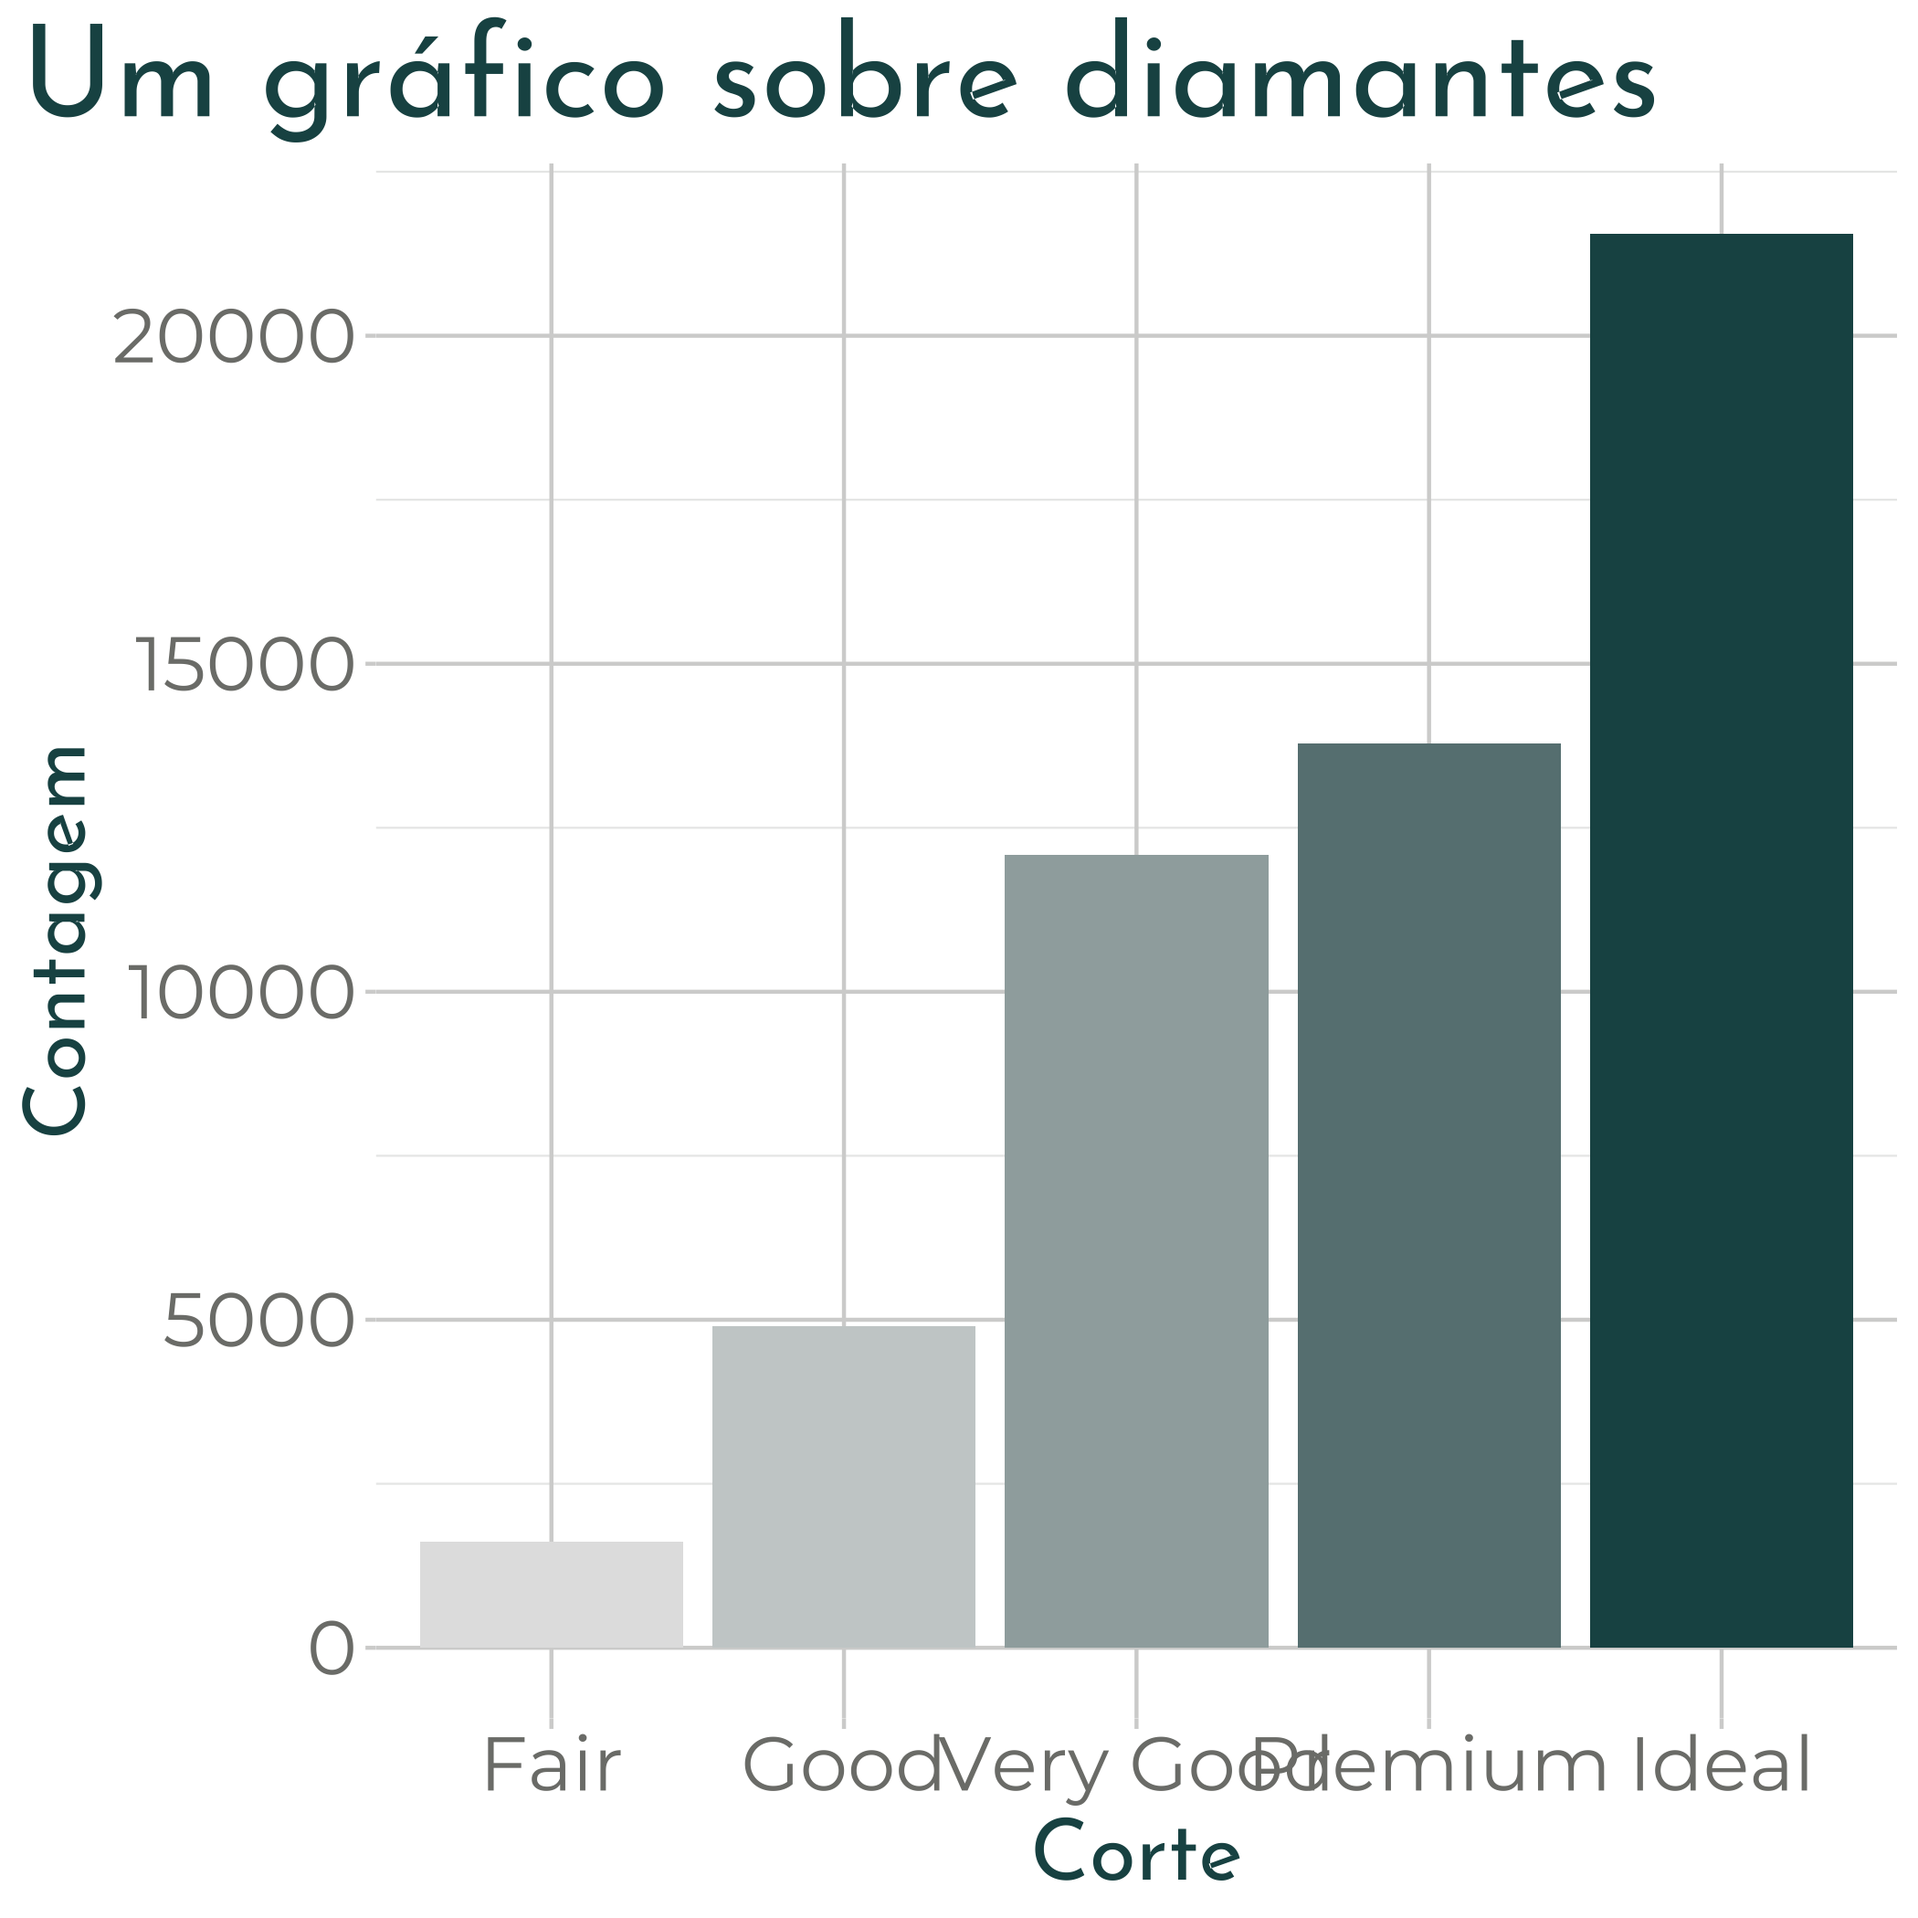
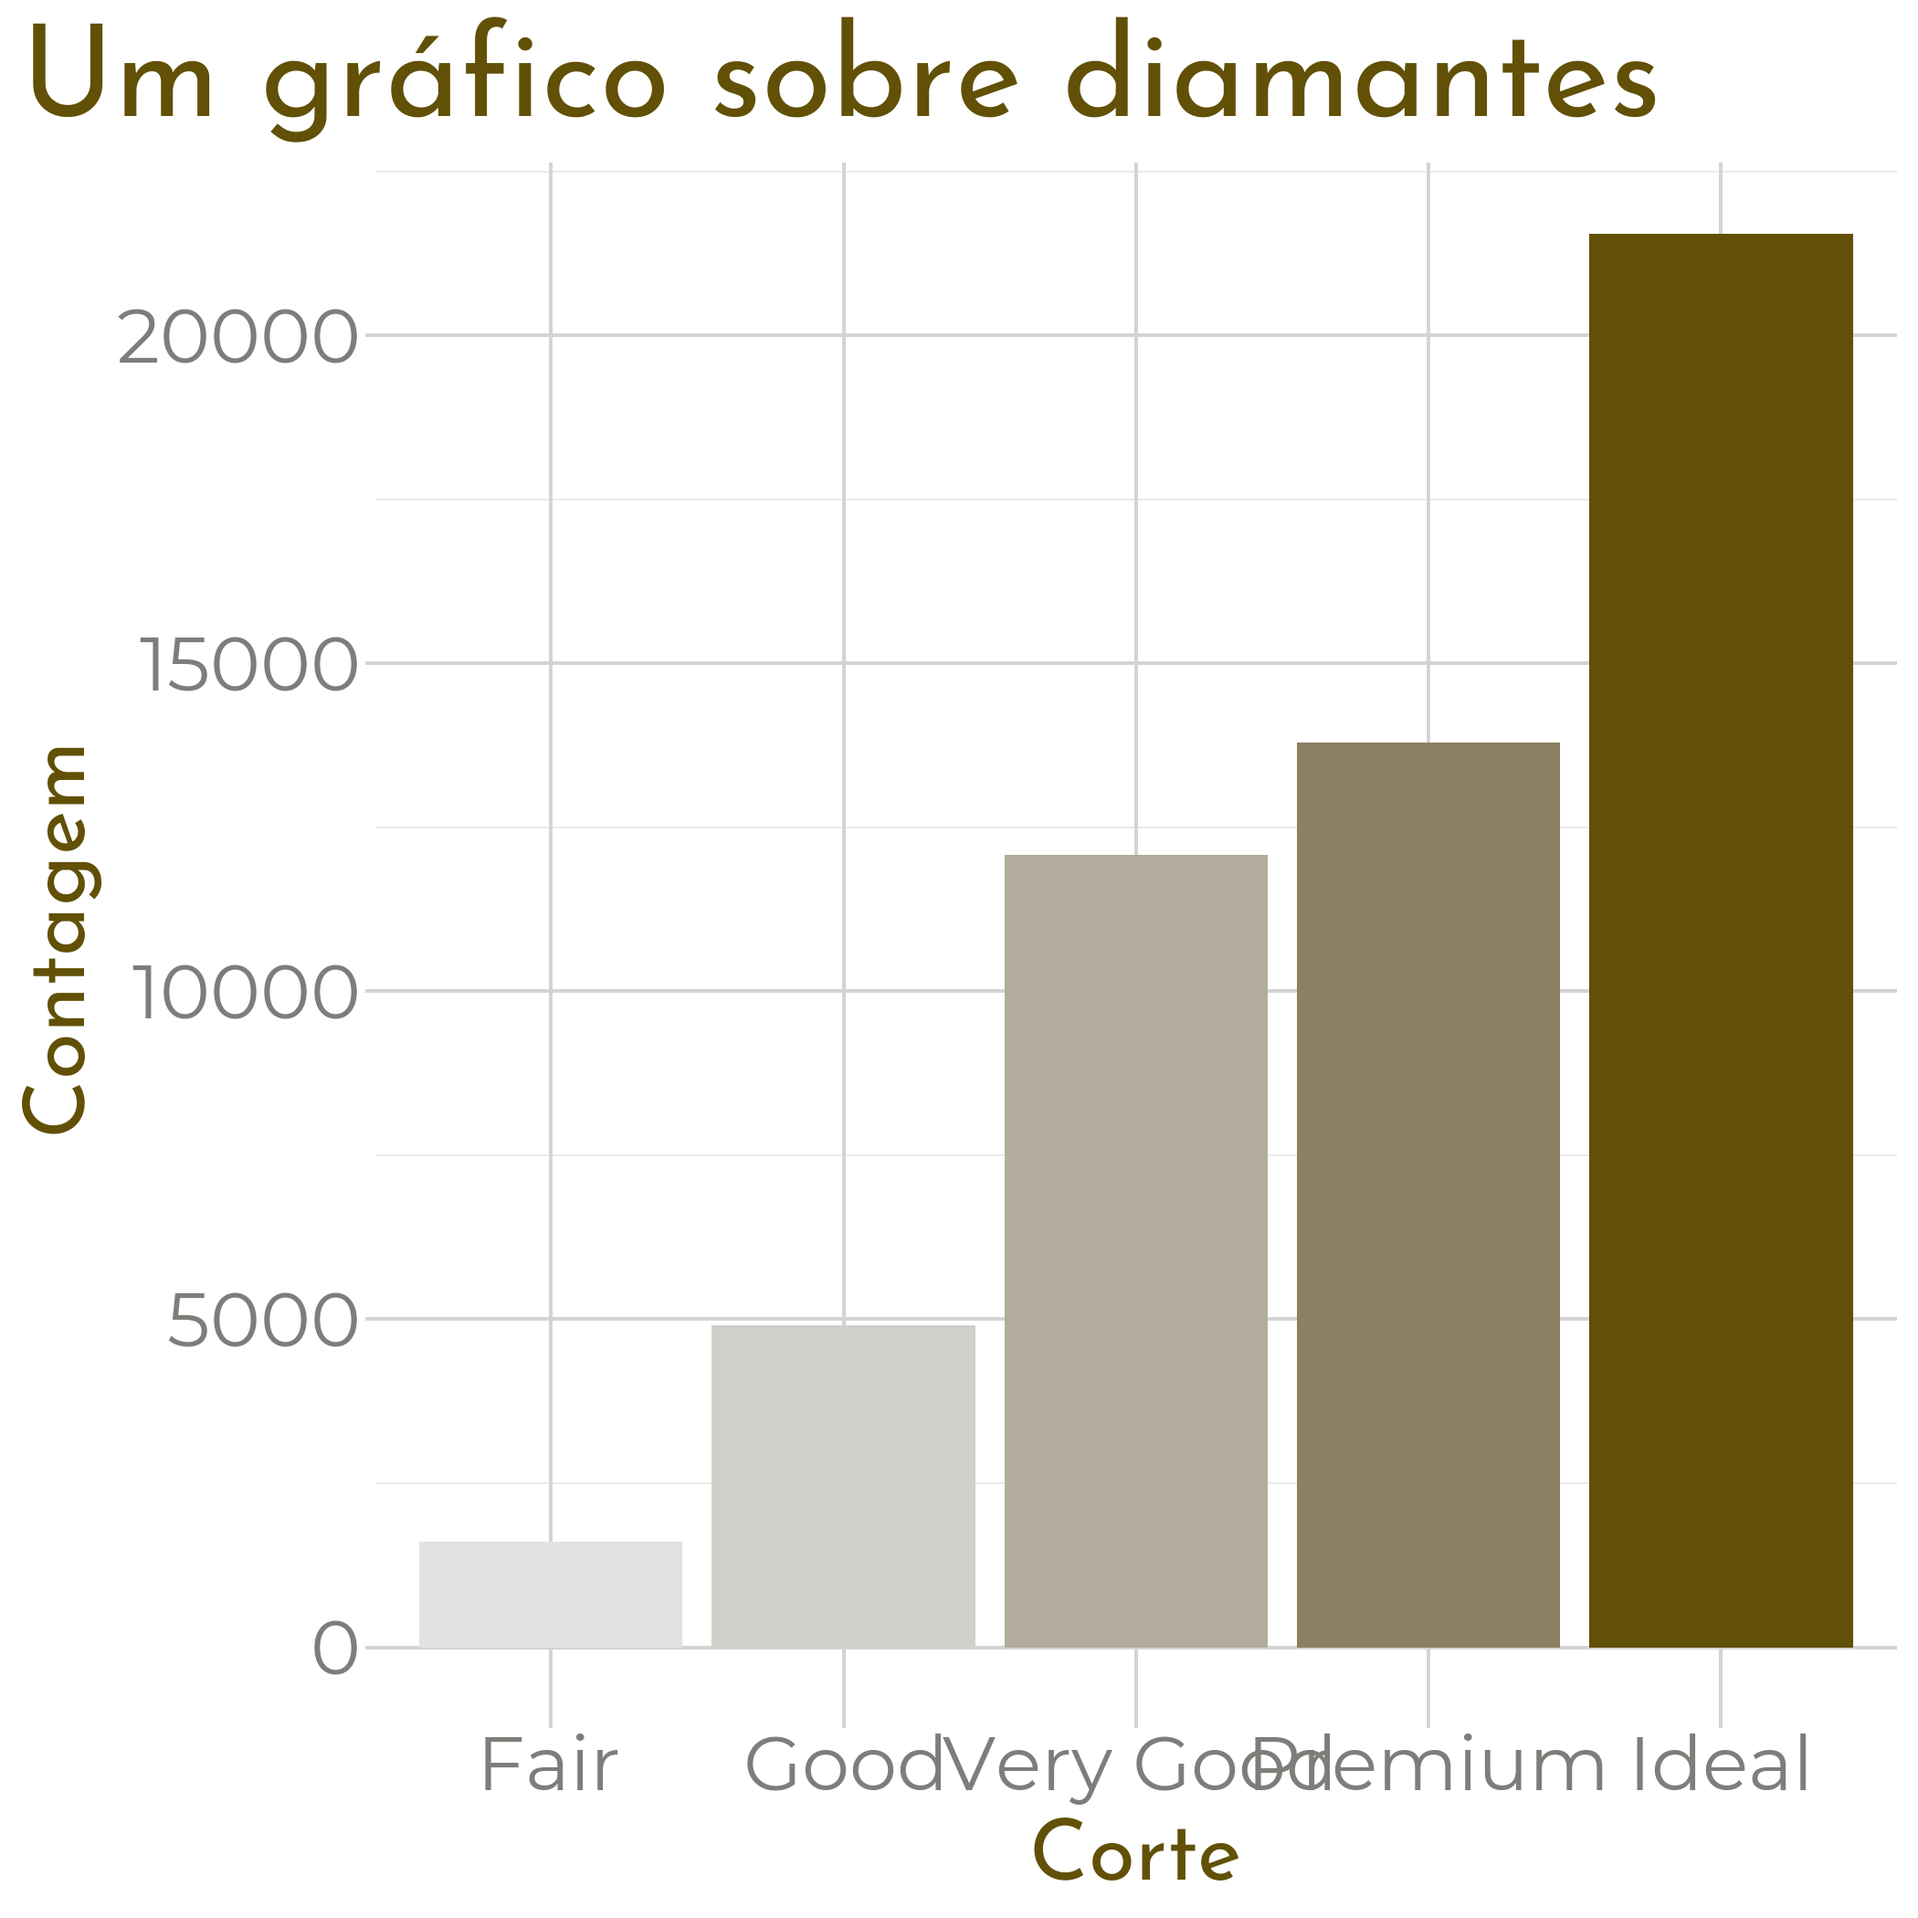
add comentários

diff --git a/exercicios/xaringan/xaringan-themer.css b/exercicios/xaringan/xaringan-themer.css
@@ -15,7 +15,7 @@
  *    - xaringan wiki: https://github.com/yihui/xaringan/wiki
  *    - remarkjs wiki: https://github.com/gnab/remark/wiki
  *
- *  Version: 0.3.0
+ *  Version: 0.3.3
  *
  * ------------------------------------------------------- */
 @import url(https://fonts.googleapis.com/css?family=Montserrat:300,300i&display=swap);
@@ -31,6 +31,7 @@
   --text-font-base: sans-serif;
   --header-font-family: 'Josefin Sans';
   --header-font-is-google: 1;
+  --header-font-family-fallback: Georgia, serif;
   --code-font-family: 'Fira Mono';
   --code-font-is-google: 1;
   --base-font-size: 20px;
@@ -43,19 +44,20 @@
 
   /* Colors */
   --text-color: #272822;
-  --header-color: #1c5253;
+  --header-color: #615006;
   --background-color: #FFFFFF;
-  --link-color: #1c5253;
-  --text-bold-color: #1c5253;
+  --link-color: #615006;
+  --text-bold-color: #615006;
   --code-highlight-color: rgba(255,255,0,0.5);
   --inverse-text-color: #FFFFFF;
-  --inverse-background-color: #1c5253;
+  --inverse-background-color: #615006;
   --inverse-header-color: #FFFFFF;
-  --title-slide-background-color: #1c5253;
+  --inverse-link-color: #615006;
+  --title-slide-background-color: #615006;
   --title-slide-text-color: #FFFFFF;
-  --header-background-color: #1c5253;
+  --header-background-color: #615006;
   --header-background-text-color: #FFFFFF;
-  --base: #1c5253;
+  --base: #FFFFFF;
   --white: #FFFFFF;
   --black: #272822;
 }
@@ -70,7 +72,7 @@ body {
   color: var(--text-color);
 }
 h1, h2, h3 {
-  font-family: var(--header-font-family);
+  font-family: var(--header-font-family), var(--header-font-family-fallback);
   font-weight: 600;
   color: var(--header-color);
 }
@@ -98,10 +100,10 @@ h1, h2, h3 {
 }
 .remark-inline-code {
   font-size: var(--code-inline-font-size);
-  color: #1c5253;
+  color: #615006;
 }
 .remark-slide-number {
-  color: #1c5253;
+  color: #615006;
   opacity: 1;
   font-size: 0.9em;
 }
@@ -127,6 +129,9 @@ a, a > code {
 .inverse h1, .inverse h2, .inverse h3 {
   color: var(--inverse-header-color);
 }
+.inverse a, .inverse a > code {
+  color: var(--inverse-link-color);
+}
 .title-slide, .title-slide h1, .title-slide h2, .title-slide h3 {
   color: var(--title-slide-text-color);
 }
@@ -143,10 +148,10 @@ a, a > code {
   float: left;
 }
 .left-column h2, .left-column h3 {
-  color: #1c525399;
+  color: #61500699;
 }
 .left-column h2:last-of-type, .left-column h3:last-child {
-  color: #1c5253;
+  color: #615006;
 }
 .right-column {
   width: 75%;
@@ -161,14 +166,14 @@ a, a > code {
   float: right;
   width: 47%;
 }
-.pull-right ~ * {
+.pull-right + * {
   clear: both;
 }
 img, video, iframe {
   max-width: 100%;
 }
 blockquote {
-  border-left: solid 5px #1c525380;
+  border-left: solid 5px #61500680;
   padding-left: 1em;
 }
 .remark-slide table {
@@ -183,7 +188,7 @@ th, td {
   padding: 5px;
 }
 .remark-slide thead, .remark-slide tfoot, .remark-slide tr:nth-child(even) {
-  background: #D1DCDC;
+  background: #DFDCCD;
 }
 table.dataTable tbody {
   background-color: var(--background-color);
@@ -193,7 +198,7 @@ table.dataTable.display tbody tr.odd {
   background-color: var(--background-color);
 }
 table.dataTable.display tbody tr.even {
-  background-color: #D1DCDC;
+  background-color: #DFDCCD;
 }
 table.dataTable.hover tbody tr:hover, table.dataTable.display tbody tr:hover {
   background-color: rgba(255, 255, 255, 0.5);

diff --git a/exercicios_resolucao/xaringan/xaringan-themer.css b/exercicios_resolucao/xaringan/xaringan-themer.css
@@ -43,24 +43,19 @@
   --header-h3-font-size: 1.75rem;
 
   /* Colors */
-  --text-color: #000000;
-  --header-color: #FFAEBC;
-  --background-color: #FFFFFF;
-  --link-color: #FFAEBC;
-  --text-bold-color: #FFAEBC;
+  --text-color: #000;
+  --header-color: #000;
+  --background-color: #FFF5DC;
+  --link-color: rgb(249, 38, 114);
   --code-highlight-color: rgba(255,255,0,0.5);
-  --inverse-text-color: #000000;
-  --inverse-background-color: #A0E7E5;
-  --inverse-header-color: #e91e63;
-  --inverse-link-color: #FFAEBC;
-  --title-slide-background-color: #FFAEBC;
-  --title-slide-text-color: #167ac6;
-  --header-background-color: #FFAEBC;
-  --header-background-text-color: #FFFFFF;
-  --primary: #FFAEBC;
-  --secondary: #A0E7E5;
-  --white: #FFFFFF;
-  --black: #000000;
+  --inverse-text-color: #d6d6d6;
+  --inverse-background-color: #272822;
+  --inverse-header-color: #f3f3f3;
+  --inverse-link-color: rgb(249, 38, 114);
+  --title-slide-background-color: #272822;
+  --title-slide-text-color: #d6d6d6;
+  --header-background-color: #000;
+  --header-background-text-color: #FFF5DC;
 }
 
 html {
@@ -101,14 +96,13 @@ h1, h2, h3 {
 }
 .remark-inline-code {
   font-size: var(--code-inline-font-size);
-  color: #FFAEBC;
+  color: #000;
 }
 .remark-slide-number {
-  color: #FFAEBC;
+  color: #272822;
   opacity: 1;
   font-size: 0.9em;
 }
-strong { color: var(--text-bold-color); }
 a, a > code {
   color: var(--link-color);
   text-decoration: none;
@@ -149,10 +143,10 @@ a, a > code {
   float: left;
 }
 .left-column h2, .left-column h3 {
-  color: #FFAEBC99;
+  color: #777;
 }
 .left-column h2:last-of-type, .left-column h3:last-child {
-  color: #FFAEBC;
+  color: #000;
 }
 .right-column {
   width: 75%;
@@ -174,7 +168,7 @@ img, video, iframe {
   max-width: 100%;
 }
 blockquote {
-  border-left: solid 5px #A0E7E580;
+  border-left: solid 5px lightgray;
   padding-left: 1em;
 }
 .remark-slide table {
@@ -189,7 +183,7 @@ th, td {
   padding: 5px;
 }
 .remark-slide thead, .remark-slide tfoot, .remark-slide tr:nth-child(even) {
-  background: #ECFAF9;
+  background: #eee;
 }
 table.dataTable tbody {
   background-color: var(--background-color);
@@ -199,7 +193,7 @@ table.dataTable.display tbody tr.odd {
   background-color: var(--background-color);
 }
 table.dataTable.display tbody tr.even {
-  background-color: #ECFAF9;
+  background-color: #eee;
 }
 table.dataTable.hover tbody tr:hover, table.dataTable.display tbody tr:hover {
   background-color: rgba(255, 255, 255, 0.5);
@@ -239,28 +233,4 @@ table.dataTable.hover tbody tr:hover, table.dataTable.display tbody tr:hover {
   }
 }
 
-.primary {
-  color: var(--primary);
-}
-.bg-primary {
-  background-color: var(--primary);
-}
-.secondary {
-  color: var(--secondary);
-}
-.bg-secondary {
-  background-color: var(--secondary);
-}
-.white {
-  color: var(--white);
-}
-.bg-white {
-  background-color: var(--white);
-}
-.black {
-  color: var(--black);
-}
-.bg-black {
-  background-color: var(--black);
-}
 

diff --git a/exercicios/xaringan/exercicio4.html b/exercicios/xaringan/exercicio4.html
@@ -13,7 +13,7 @@ class: center, middle, inverse, title-slide
 
 # Presentation Ninja
 ## ⚔ xaringan +<br/>😎 xaringanthemer
-### 15-03-2021
+### 14-04-2021
 
 ---
 
@@ -29,6 +29,11 @@ class: center, middle, inverse, title-slide
 ---
 
 ## Um gráfico!!
+
+
+```
+## Warning: package 'ggplot2' was built under R version 4.0.3
+```
 
 &lt;img src="exercicio4_files/figure-html/unnamed-chunk-2-1.png" width="60%" style="display: block; margin: auto;" /&gt;
 

diff --git a/exercicios/xaringan/custom.css b/exercicios/xaringan/custom.css
@@ -1,3 +1,3 @@
-.title-slide h1{
-  color: #CCCCCC;
+.remark-slide-content {
+    background-color: #f5f5f2;
 }
